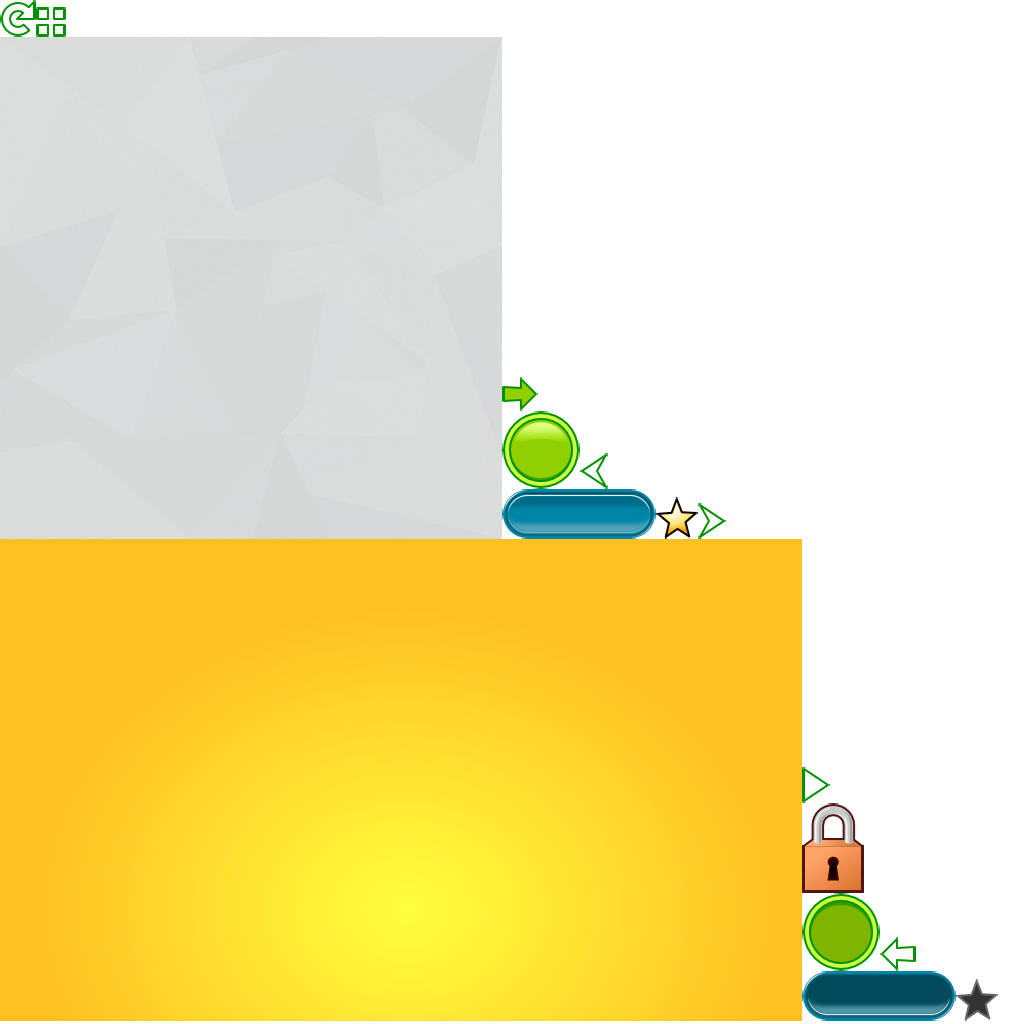
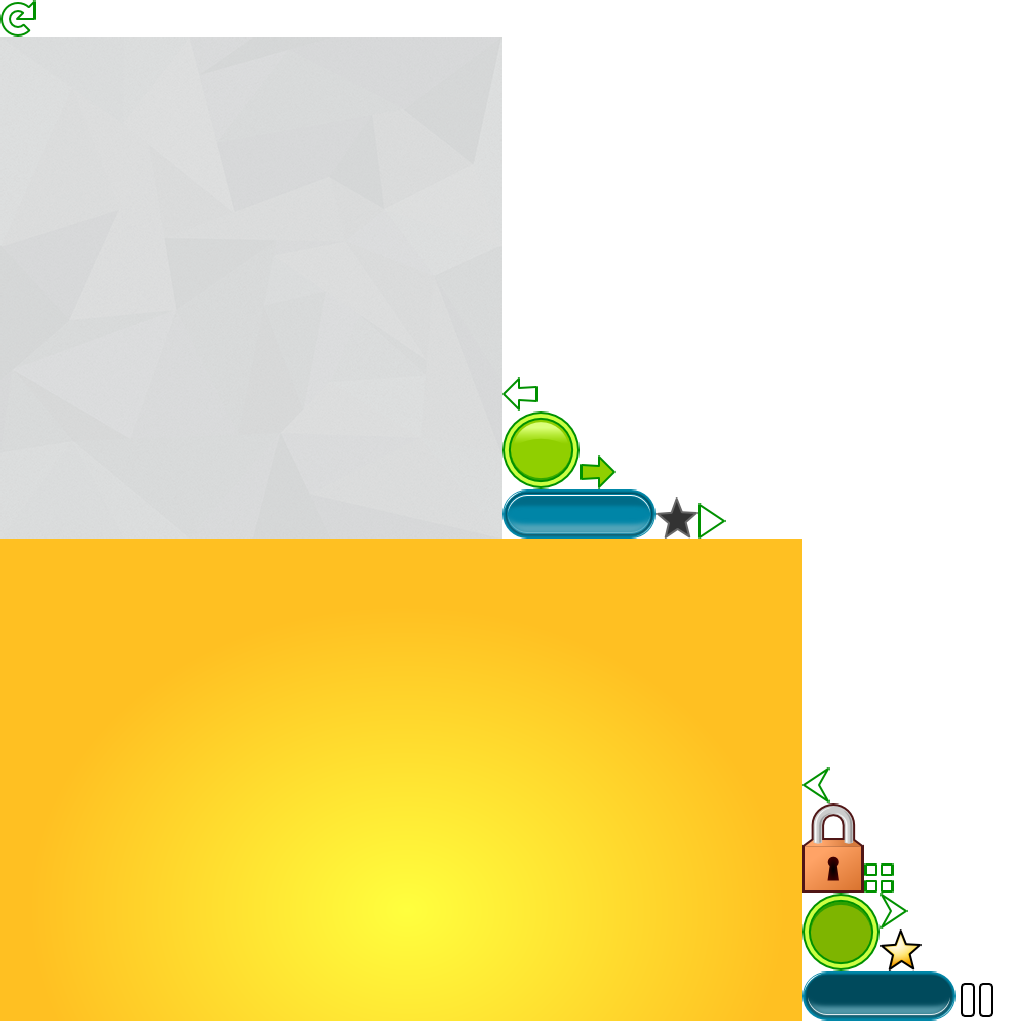
Bigger pause button

diff --git a/burgerparty/src/com/agateau/burgerparty/view/WorldView.java b/burgerparty/src/com/agateau/burgerparty/view/WorldView.java
@@ -231,7 +231,7 @@ public class WorldView extends AnchorGroup {
 	private void setupTimerDisplay() {
 		mTimerDisplay = new Label("0", mSkin, "lcd-font", "lcd-color");
 		mTimerDisplay.setAlignment(Align.center);
-		mPauseButton = new Image(mAtlas.findRegion("pause"));
+		mPauseButton = new Image(mAtlas.findRegion("ui/pause"));
 		mPauseButton.setTouchable(Touchable.enabled);
 		mPauseButton.addListener(new ClickListener() {
 			public void clicked(InputEvent event, float x, float y) {
